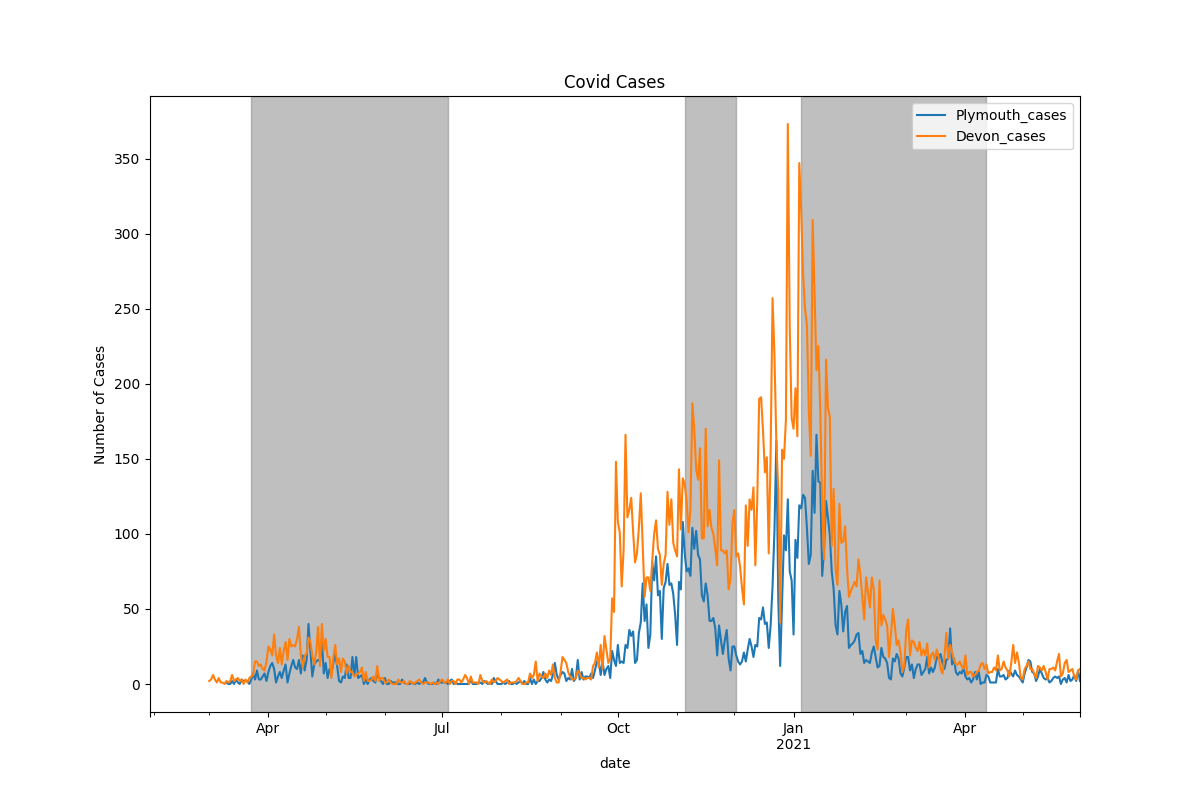
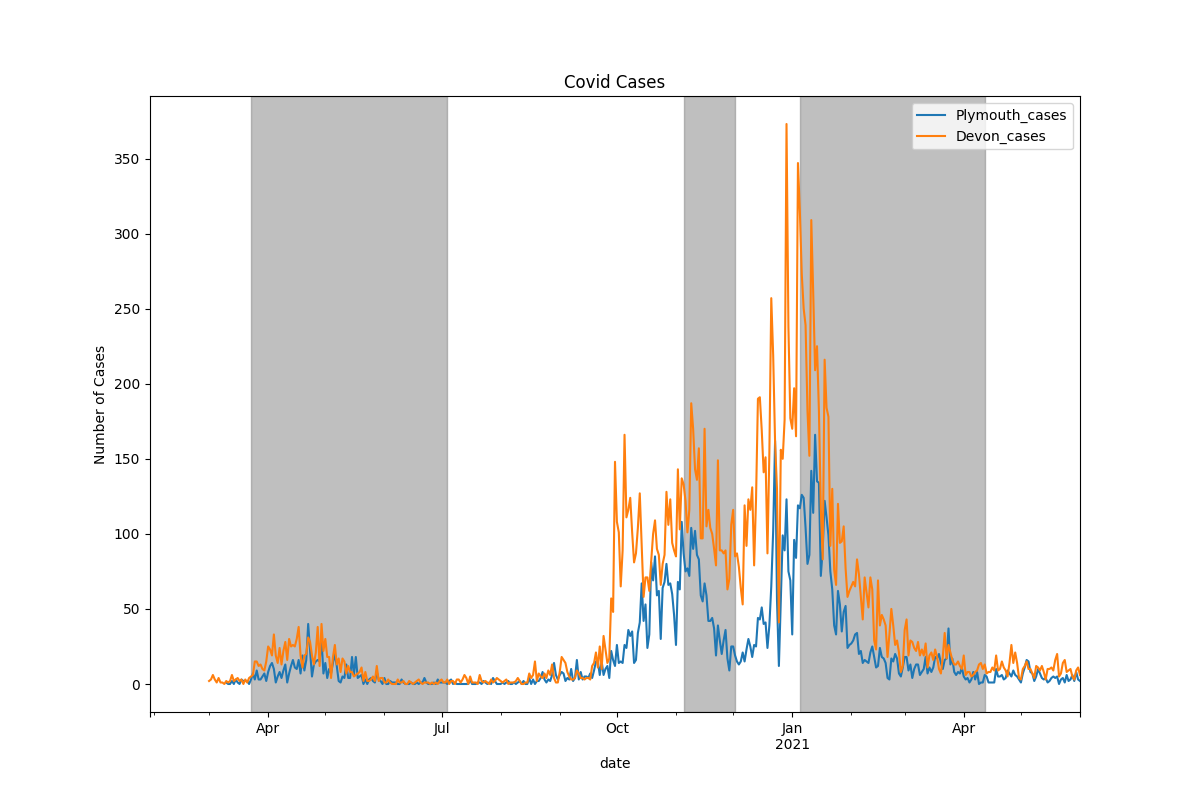
update-data

diff --git a/index.md b/index.md
@@ -7,4 +7,4 @@ Grey sections are used to identify national lockdowns, of various strengths.
 ![Covid Rates Per 100000](images/plymouth_covid_graph_pht.png "Plymouth Covid Graph Per 100000 ")
 
 
-Last updated on: 02 June 2021
+Last updated on: 03 June 2021
